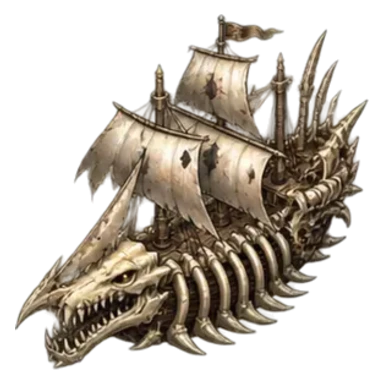
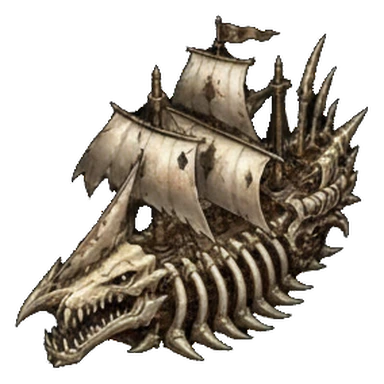
Elit 8 Kemik Biçici: kullanıcının yeni çizimi yön sayfası ve kart görseli oldu
Siyah arka plan temizlendi; 3×3 sayfadaki benzersiz dört görünüm (G, GB, GD,
K) 8 kareli yön sayfasına dizildi. Eksik B/D karelerinde GB/GD, KD/KB
karelerinde K görünümü geçici olarak kullanılır. Tersane kartı yeni GB görünümü.

Claude-Session: https://claude.ai/code/session_01Mc9BhaSSsCCxzjNzAUDeqJ

Changed region(s): [[0.0312, 0.0312, 0.9688, 0.9688], [0.8438, 0.0625, 0.875, 0.0938]]

diff --git a/src/elite-ships.ts b/src/elite-ships.ts
@@ -29,8 +29,10 @@ export const eliteById=(id:string)=>ELITE_SHIPS.find(ship=>ship.id===id)??ELITE_
 export const COMPASS=['N','NE','E','SE','S','SW','W','NW'] as const;
 export type Compass=typeof COMPASS[number];
 const DEFAULT_SHOWS='S SW W NE N SE E NW';
+// Kemik Biçici (bone) sayfası kullanıcı çizimi: G, GB, GD ve K görünümleri var; B/D karelerinde GB/GD, KD/KB karelerinde K
+// görünümü geçici olarak kullanılır (eksik dört açı gelince aynı karelere konur).
 export const ELITE_DIR_SHOWS:Partial<Record<EliteShipId,string>>={
-  atlantean:'S SW W NE N SE E SE',bone:'S SW W NE N SE E SE',crimson:'S SW W NE N SE E SE',plague:'S SW W NE N SE E SE',
+  atlantean:'S SW W NE N SE E SE',crimson:'S SW W NE N SE E SE',plague:'S SW W NE N SE E SE',
   sovereign:'S SW W NE N SE E SE',tempest:'S SW W NE N SE E SE',void:'S SW W NE N SE E SE',
   ironclad:'S SW W NW N SE E NE',ragnarok:'S NE W NE N SE E NW',jade:'S SE E NW N SE W NW',
 };
